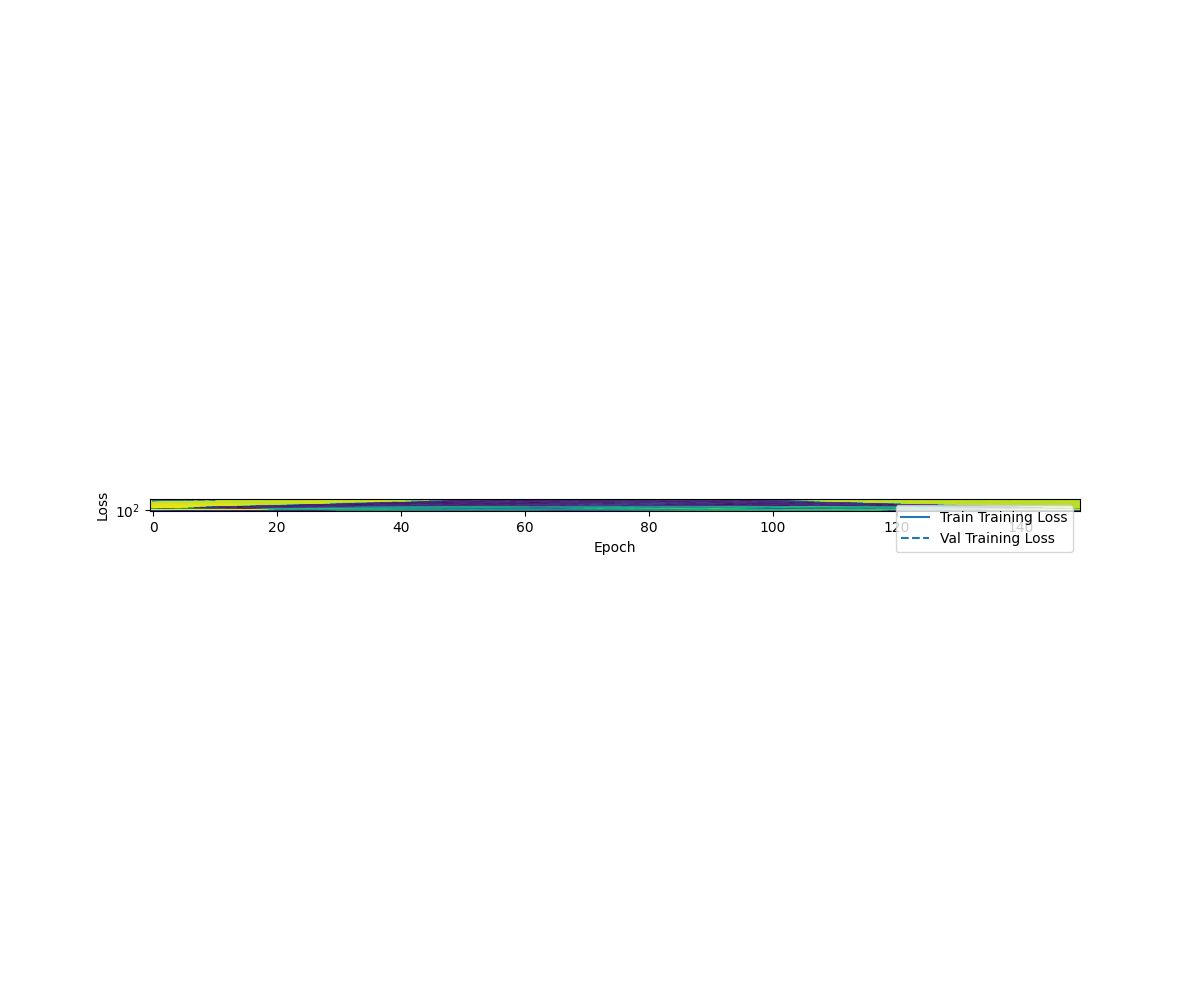
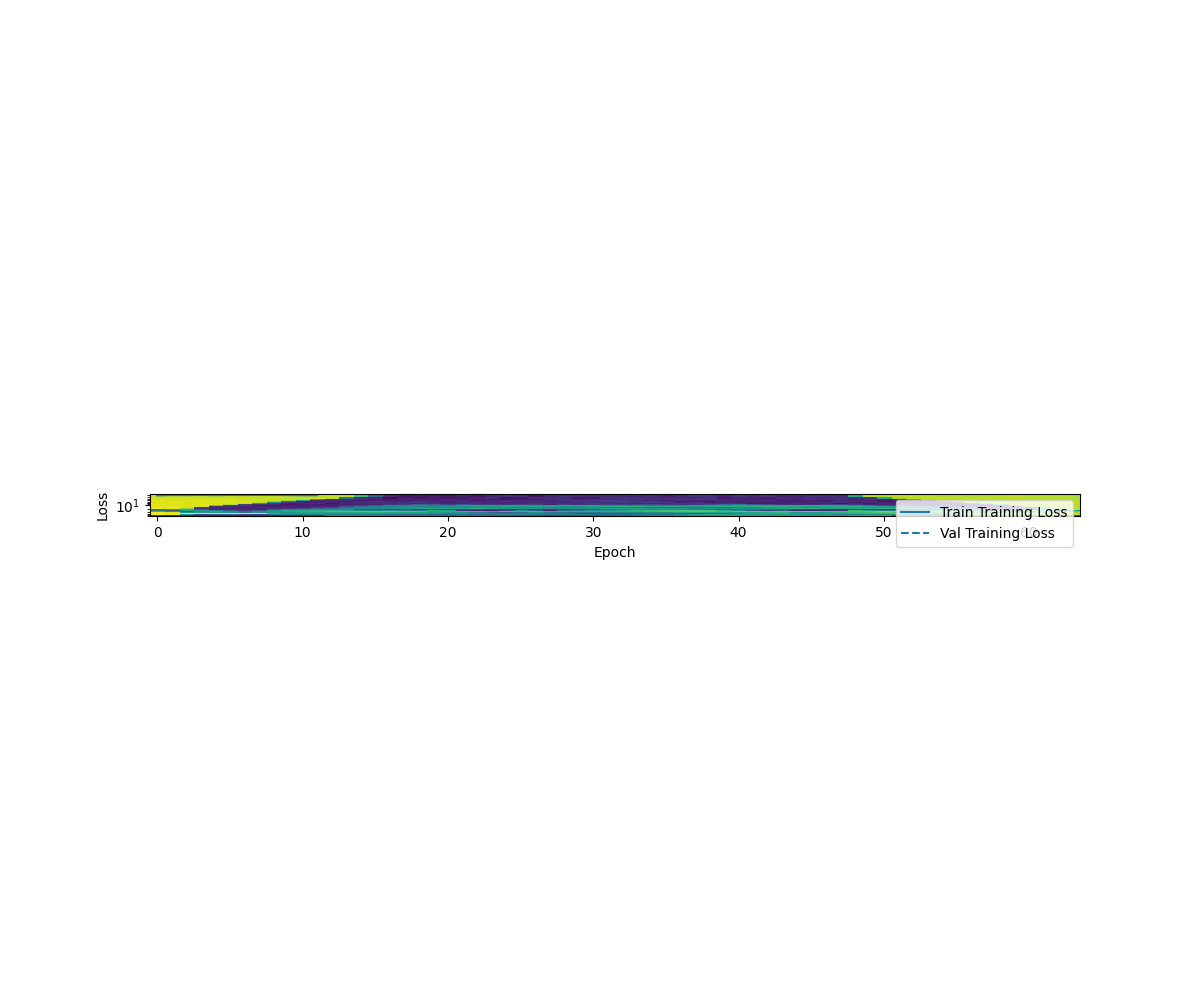
Minor changes to CNN architecture - removed class weights

Changed region(s): [[0.0925, 0.496, 0.8942, 0.558]]

diff --git a/main.py b/main.py
@@ -1,18 +1,16 @@
 import os
+import sys
 import json
 import shutil
 import numpy as np
 import pandas as pd
 
-import keras
+from tensorflow import keras
 import tensorflow as tf
-import keras.backend as K
 from keras.layers import Dense
 from keras.layers import Dropout
 from keras.layers import Flatten
-from keras.models import Sequential
 from sklearn.utils import class_weight
-from keras.constraints import maxnorm
 from sklearn.metrics import roc_curve
 from keras.utils.vis_utils import plot_model
 from ann_visualizer.visualize import ann_viz
@@ -27,7 +25,6 @@ mpl.rcParams['figure.figsize'] = (12, 10)
 colors = plt.rcParams['axes.prop_cycle'].by_key()['color']
 
 # plt.style.use('ggplot')
-
 
 batch_size = 32
 img_height = 64
@@ -159,43 +156,45 @@ def data_pipeline(filenames, labels):
 
 
 def create_model_1(num_classes, metrics):
-    model = Sequential()
+    model = tf.keras.models.Sequential()
     model.add(
-        Conv2D(32, (3, 3), input_shape=(img_height, img_width, 1), padding='same', activation='relu'))
+        Conv2D(32, (3, 3), input_shape=(img_height, img_width, 1), padding='same', activation='relu',
+               kernel_initializer='he_uniform'))
     model.add(Dropout(0.2))
-    model.add(Conv2D(32, (3, 3), activation='relu', padding='same'))
+    model.add(Conv2D(32, (3, 3), activation='relu', padding='same', kernel_initializer='he_uniform'))
     model.add(MaxPooling2D())
     model.add(Flatten())
-    model.add(Dense(512, activation='relu'))
+    model.add(Dense(512, activation='relu', kernel_initializer='he_uniform'))
     model.add(Dropout(0.5))
     model.add(Dense(num_classes, activation='softmax'))
-    model.compile(loss=keras.losses.SparseCategoricalCrossentropy(), optimizer=keras.optimizers.Adam(lr=1e-3),
+    model.compile(loss=tf.losses.SparseCategoricalCrossentropy(), optimizer=tf.optimizers.Adam(lr=1e-3),
                   metrics=metrics)
     return model
 
 
 def create_model_2(num_classes, metrics):
-    model = Sequential()
-    model.add(Conv2D(32, (3, 3), input_shape=(64, 64, 1), activation='relu', padding='same'))
+    model = tf.keras.models.Sequential()
+    model.add(Conv2D(32, (3, 3), input_shape=(64, 64, 1), activation='relu', padding='same',
+                     kernel_initializer='he_uniform'))
     model.add(Dropout(0.2))
-    model.add(Conv2D(32, (3, 3), activation='relu', padding='same'))
+    model.add(Conv2D(32, (3, 3), activation='relu', padding='same', kernel_initializer='he_uniform'))
     model.add(MaxPooling2D())
-    model.add(Conv2D(64, (3, 3), activation='relu', padding='same'))
+    model.add(Conv2D(64, (3, 3), activation='relu', padding='same', kernel_initializer='he_uniform'))
     model.add(Dropout(0.2))
-    model.add(Conv2D(64, (3, 3), activation='relu', padding='same'))
+    model.add(Conv2D(64, (3, 3), activation='relu', padding='same', kernel_initializer='he_uniform'))
     model.add(MaxPooling2D())
-    model.add(Conv2D(128, (3, 3), activation='relu', padding='same'))
+    model.add(Conv2D(128, (3, 3), activation='relu', padding='same', kernel_initializer='he_uniform'))
     model.add(Dropout(0.2))
-    model.add(Conv2D(128, (3, 3), activation='relu', padding='same'))
+    model.add(Conv2D(128, (3, 3), activation='relu', padding='same', kernel_initializer='he_uniform'))
     model.add(MaxPooling2D())
     model.add(Flatten())
     model.add(Dropout(0.2))
-    model.add(Dense(1024, activation='relu'))
+    model.add(Dense(1024, activation='relu', kernel_initializer='he_uniform'))
     model.add(Dropout(0.2))
-    model.add(Dense(512, activation='relu'))
+    model.add(Dense(512, activation='relu', kernel_initializer='he_uniform'))
     model.add(Dropout(0.2))
     model.add(Dense(num_classes, activation='softmax'))
-    model.compile(loss=keras.losses.SparseCategoricalCrossentropy(), optimizer=keras.optimizers.Adam(lr=1e-3),
+    model.compile(loss=tf.losses.SparseCategoricalCrossentropy(), optimizer=tf.optimizers.Adam(lr=1e-3),
                   metrics=metrics)
     return model
 
@@ -250,6 +249,24 @@ def plot_roc(name, labels, predictions, **kwargs):
     ax.set_aspect('equal')
 
 
+# plot diagnostic learning curves
+def summarize_diagnostics(history):
+	# plot loss
+	plt.subplot(211)
+	plt.title('Cross Entropy Loss')
+	plt.plot(history.history['loss'], color='blue', label='train')
+	plt.plot(history.history['val_loss'], color='orange', label='test')
+	# plot accuracy
+	plt.subplot(212)
+	plt.title('Accuracy')
+	plt.plot(history.history['accuracy'], color='blue', label='train')
+	plt.plot(history.history['val_accuracy'], color='orange', label='test')
+	# save plot to file
+	filename = sys.argv[0].split('/')[-1]
+	plt.savefig(filename + '_plot.png')
+	plt.close()
+
+
 # class CategoricalTruePositives(tf.keras.metrics.Metric):
 #
 #     def __init__(self, num_classes, batch_size,
@@ -271,7 +288,7 @@ def plot_roc(name, labels, predictions, **kwargs):
 #         self.cat_true_positives.assign_add(true_poss)
 #
 #     def result(self):
-#         return self.cat_true_positives
+#         return self.cat_true_positives=
 
 
 def main():
@@ -337,8 +354,8 @@ def main():
         restore_best_weights=True)
 
     # Define checkpoints
-    checkpoint_path = "model/cp.ckpt"
-    cp_callback = keras.callbacks.ModelCheckpoint(filepath=checkpoint_path,
+    checkpoint_path = "model/cp.cpkt"
+    cp_callback = tf.keras.callbacks.ModelCheckpoint(filepath=checkpoint_path,
                                                   save_weights_only=True,
                                                   save_best_only=True,
                                                   verbose=1)
@@ -354,13 +371,13 @@ def main():
         json_file.write(model_json)
 
     # Set class weights
-    class_weights = class_weight.compute_class_weight('balanced', np.unique(y_train), y_train)
-    class_weights = dict(enumerate(class_weights))
+    # class_weights = class_weight.compute_class_weight('balanced', np.unique(y_train), y_train)
+    # class_weights = dict(enumerate(class_weights))
 
     # Train model
     training_history = model.fit(train_dataset, epochs=500, batch_size=batch_size,
                                  callbacks=[early_stopping, cp_callback],
-                                 validation_data=val_dataset, class_weight=class_weights)
+                                 validation_data=val_dataset) #, class_weight=class_weights)
 
     # Plot loss
     plot_loss(training_history, "Training Loss", 0)
